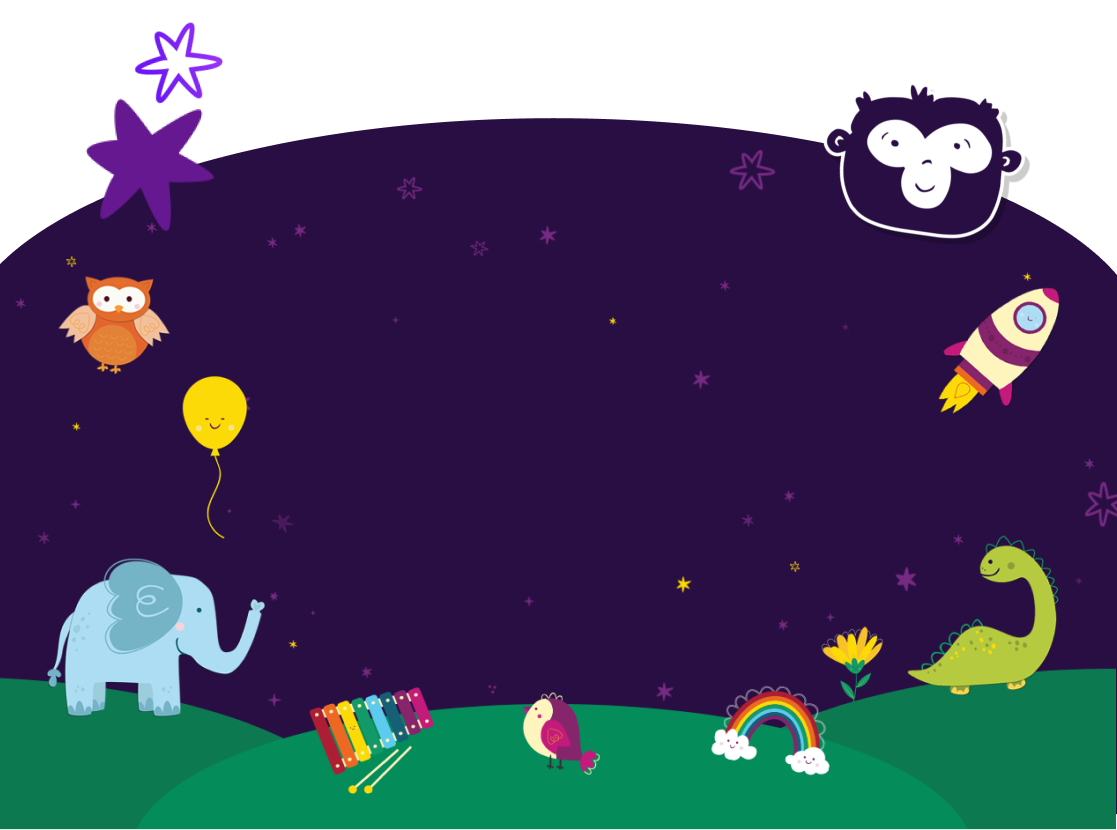
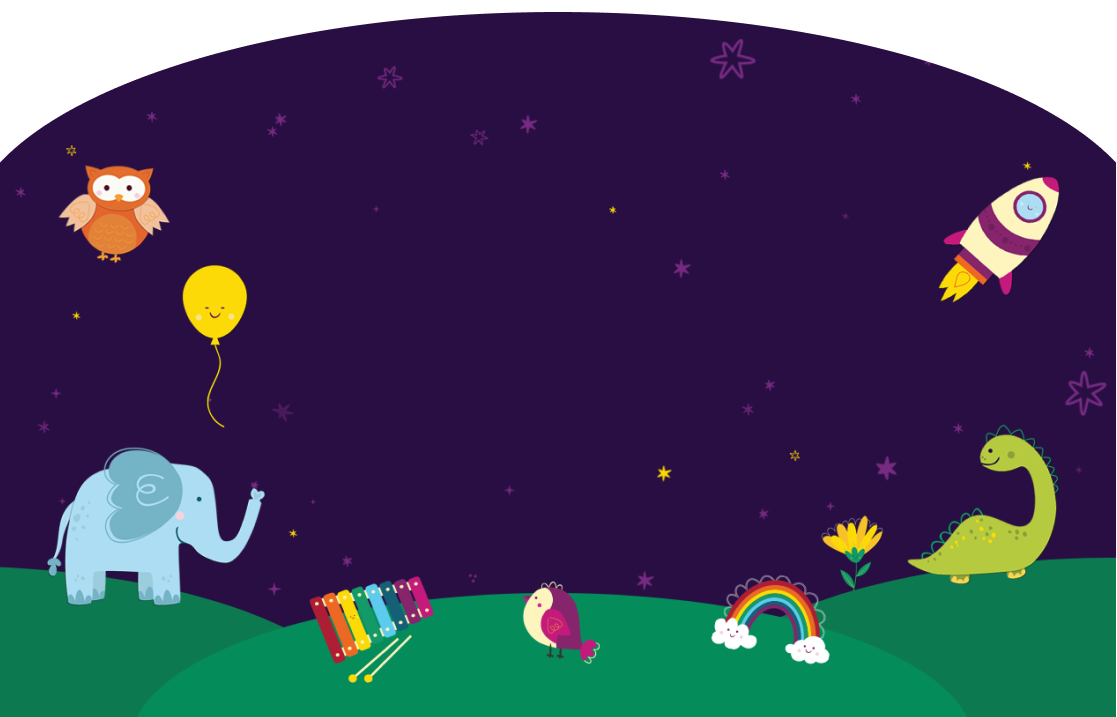
bg memory

diff --git a/src/components/memory/Memory.css b/src/components/memory/Memory.css
@@ -1,5 +1,6 @@
 .bg-memory {
-    height: 84vh;
+    height: 59.5vh;
+    margin-top: 50px;
     display: flex;
     flex-direction: column;
     justify-content: center;
@@ -12,7 +13,7 @@
 }
 
 .text-memory{
-    margin-top: 2rem;
+    margin-top: 0.5rem;
     display: flex;
     gap: 0.5rem;
 }
